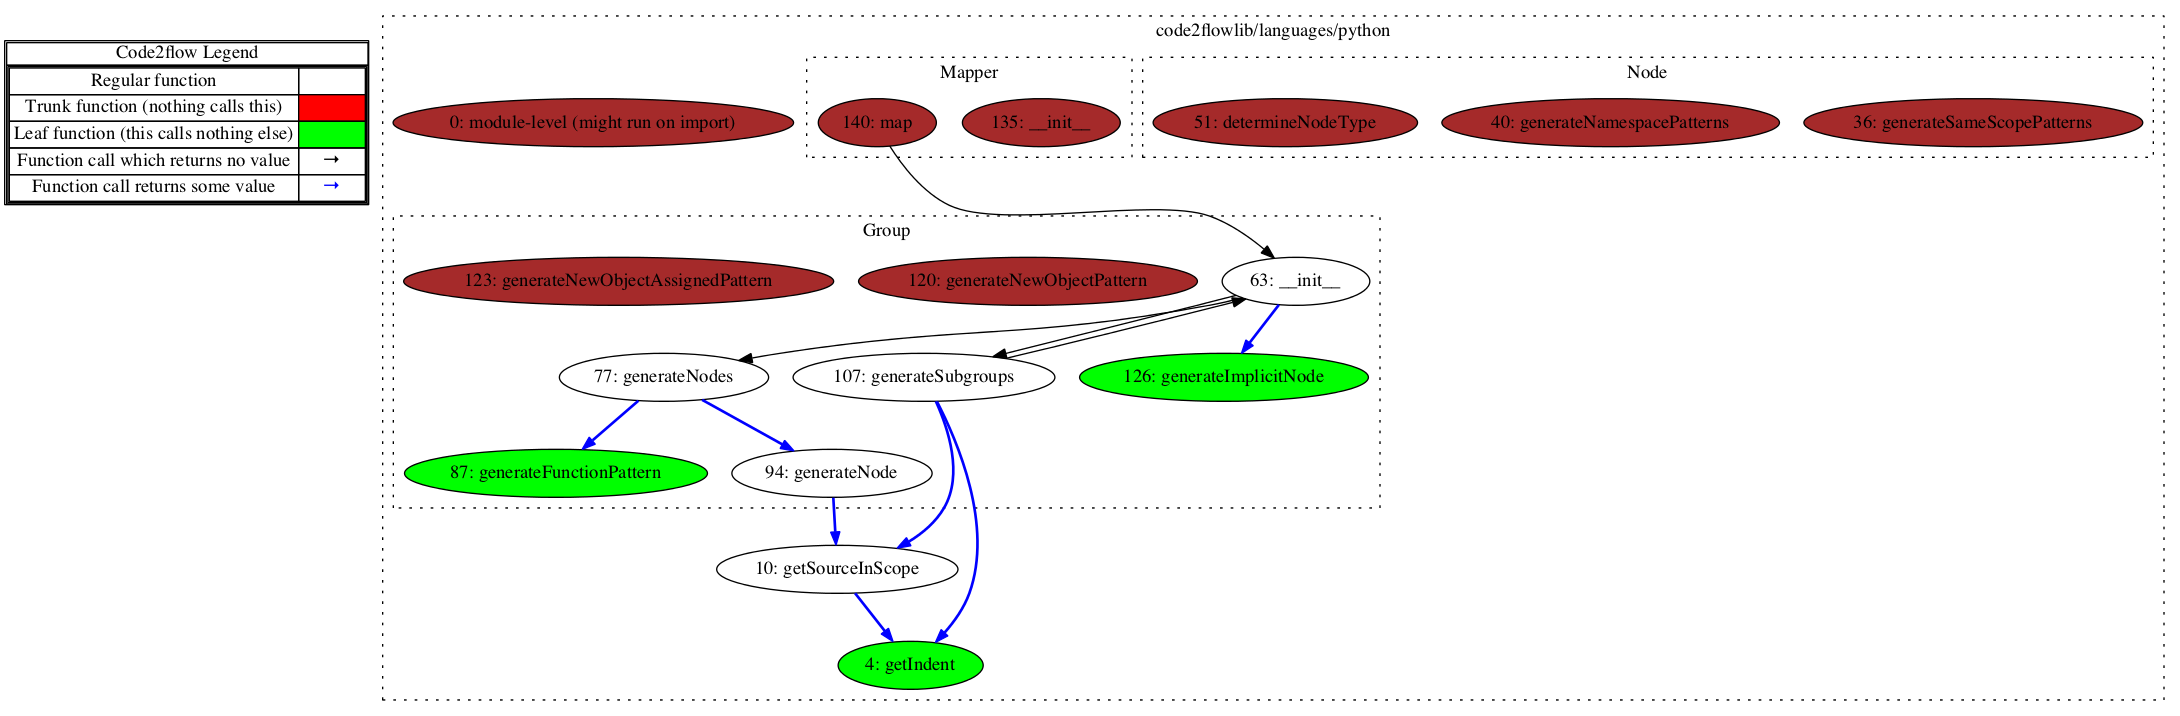
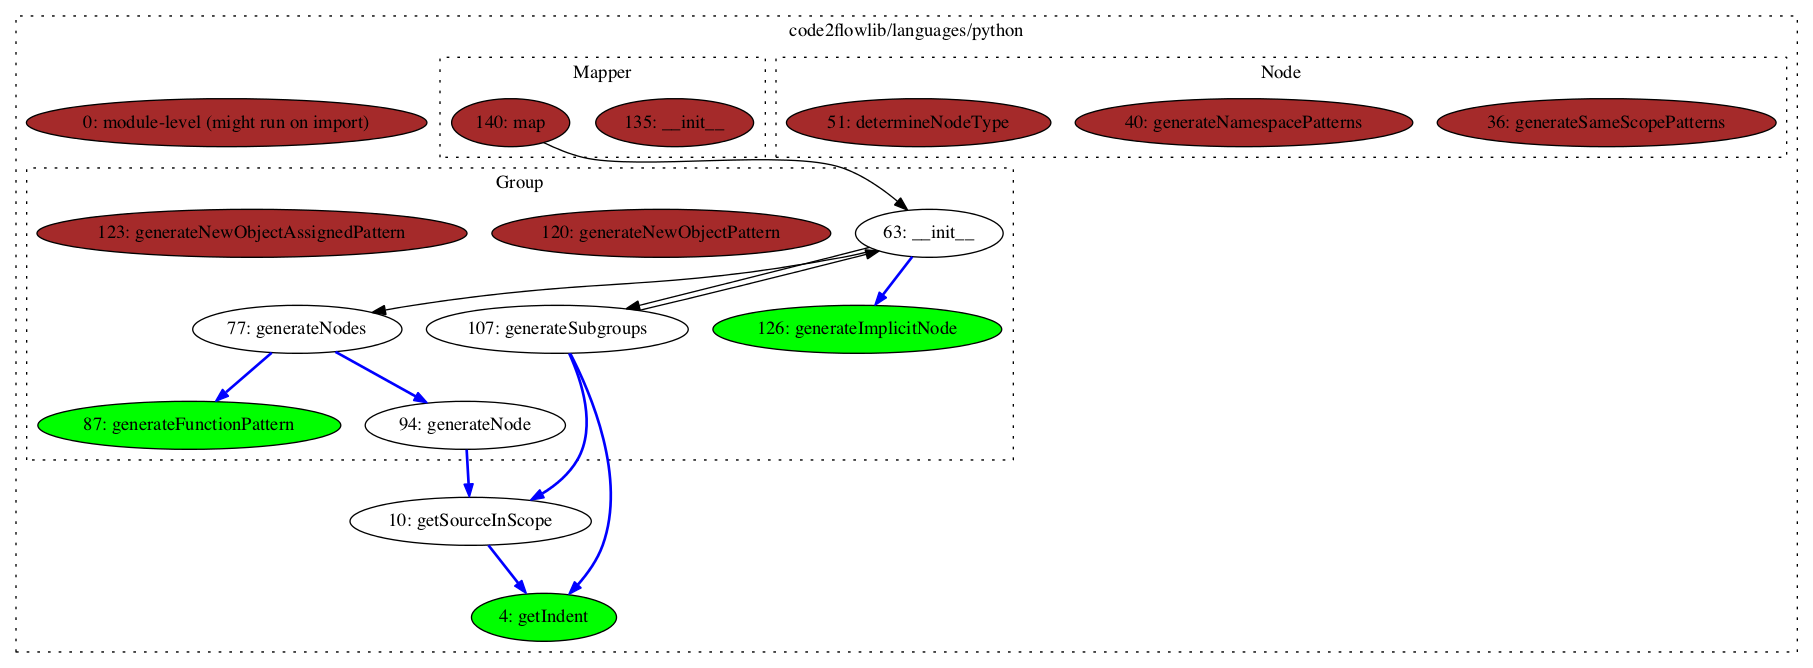
updated readme and examples. Added hidelegend flag

diff --git a/code2flowlib/dotgenerator.py b/code2flowlib/dotgenerator.py
@@ -1,24 +1,25 @@
-def writeDotFile(dotFile,nodes,edges,groups):
+def writeDotFile(dotFile,nodes,edges,groups,hidelegend=False):
 	#write the output dot file
 	with open(dotFile,'w') as outfile:
-		outfile.write(generateDotFile(nodes,edges,groups))
+		outfile.write(generateDotFile(nodes,edges,groups,hidelegend))
 
-def generateDotFile(nodes,edges,groups):
+def generateDotFile(nodes,edges,groups,hidelegend=False):
 	ret = "digraph G {\n"
-	ret += """
-		subgraph legend{
-		rank = min;
-		label = "legend";
-		Legend [shape=none, margin=0, label = <
-			<table cellspacing="0" cellpadding="0" border="1"><tr><td>Code2flow Legend</td></tr><tr><td>
-			<table cellspacing="0">
-			<tr><td>Regular function</td><td width="50px"></td></tr>
-			<tr><td>Trunk function (nothing calls this)</td><td bgcolor='red'></td></tr>
-			<tr><td>Leaf function (this calls nothing else)</td><td bgcolor='green'></td></tr>
-			<tr><td>Function call which returns no value</td><td>&#8594;</td></tr>
-			<tr><td>Function call returns some value</td><td><font color='blue'>&#8594;</font></td></tr>
-			</table></td></tr></table>
-			>];}"""
+	if not hidelegend:
+		ret += """
+			subgraph legend{
+			rank = min;
+			label = "legend";
+			Legend [shape=none, margin=0, label = <
+				<table cellspacing="0" cellpadding="0" border="1"><tr><td>Code2flow Legend</td></tr><tr><td>
+				<table cellspacing="0">
+				<tr><td>Regular function</td><td width="50px"></td></tr>
+				<tr><td>Trunk function (nothing calls this)</td><td bgcolor='red'></td></tr>
+				<tr><td>Leaf function (this calls nothing else)</td><td bgcolor='green'></td></tr>
+				<tr><td>Function call which returns no value</td><td>&#8594;</td></tr>
+				<tr><td>Function call returns some value</td><td><font color='blue'>&#8594;</font></td></tr>
+				</table></td></tr></table>
+				>];}"""
 	for node in nodes:
 		if str(node):
 			ret += str(node)+';\n'

diff --git a/README.md b/README.md
@@ -1,7 +1,7 @@
 code2flow
 =========
 
-Turn your Python and Javascript source code into DOT flowcharts
+Turn your Python and Javascript source code (javascript not working yet) into DOT flowcharts
 
 Code2flow will sweep through your project source code looking for function definitions. Then it will do another sweep looking for where those functions are called. Code2flow connects the dots and presents you with a flowchart estimating the functional structure of your program.
 
@@ -9,8 +9,11 @@ Code2flow is especially useful for untangling spaghetti code and getting new dev
 
 Code2flow is EXPERIMENTAL and meant to provide a **rough overview** of the structure of simple projects. Source code which is just a little esoteric will break this. Even with normal-people code, there are many known limitations (see below) as well as many outright bugs. **Expect MOST aspects of this application to change in future releases.**
 
-Here is what happens when you run it on httplib
-![Alt text](example.png "Run it on ")
+Here is what happens when you run it on the python calendar module
+![Alt text](example2.png)
+
+When you run it on code2flow/languages/python.py, here is what happens
+![Alt text](example.png)
 
 Installation
 ------------
@@ -39,16 +42,16 @@ Usage
 To generate a DOT file run something like:
 
 ```bash
-code2flow mypythonfile.py -o myflow.gz
+code2flow mypythonfile.py
 ```
 
-Or
+Or, for javascript
 
 ```bash
-code2flow myjavascriptfile.js -o myflow.gz
+code2flow myjavascriptfile.js
 ```
 
-Then open myflow.gz in your DOT file viewer (e.g. graphviz)
+By default, code2flow will render a DOT file, out.gv and a PNG file, out.png.
 
 You can also render the flowchart in any of the formats that graphviz supports:
 bmp canon cgimage cmap cmapx cmapx_np dot eps exr fig **gif** gv imap imap_np ismap jp2 jpe **jpeg** jpg pct pdf pic pict plain plain-ext **png** pov ps ps2 psd sgi **svg** svgz tga tif tiff tk vml vmlz x11 xdot xlib
@@ -56,6 +59,11 @@ bmp canon cgimage cmap cmapx cmapx_np dot eps exr fig **gif** gv imap imap_np is
 For example:
 ```bash
 code2flow mypythonfile.py -o myflow.jpeg
+```
+
+Specify multiple files and even use *
+```bash
+code2flow project/directory/*.py
 ```
 
 Limitations
